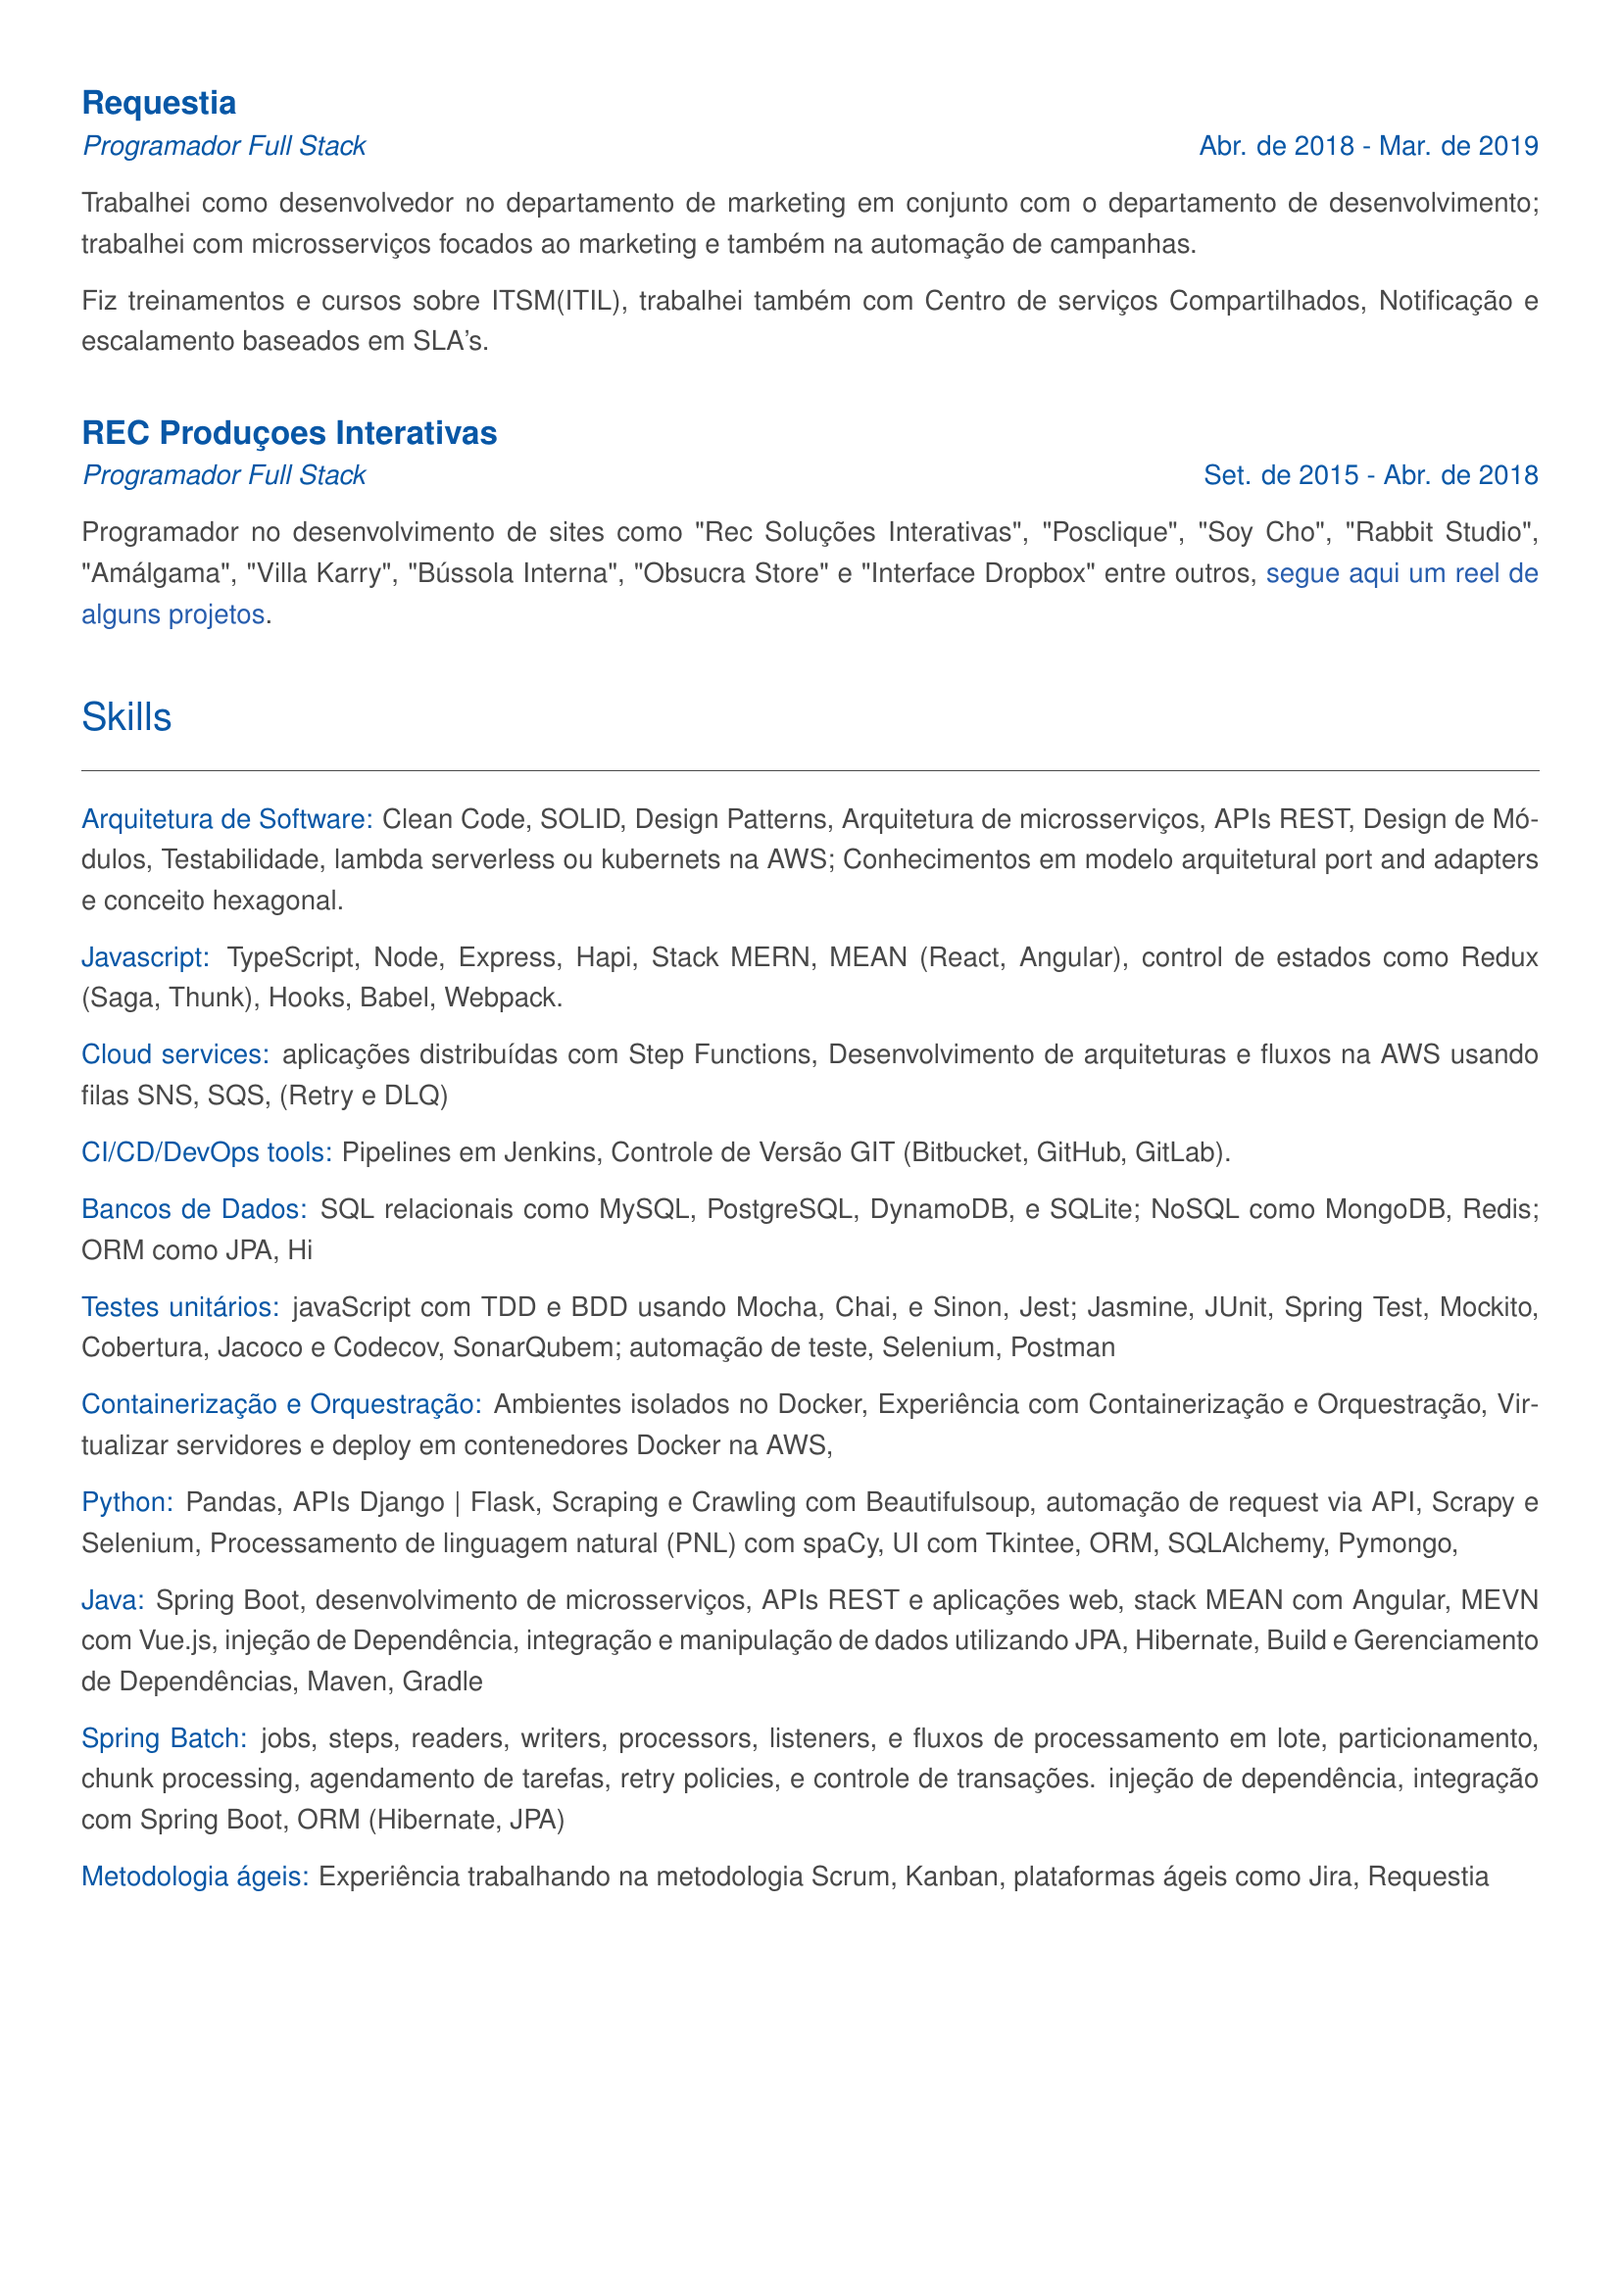
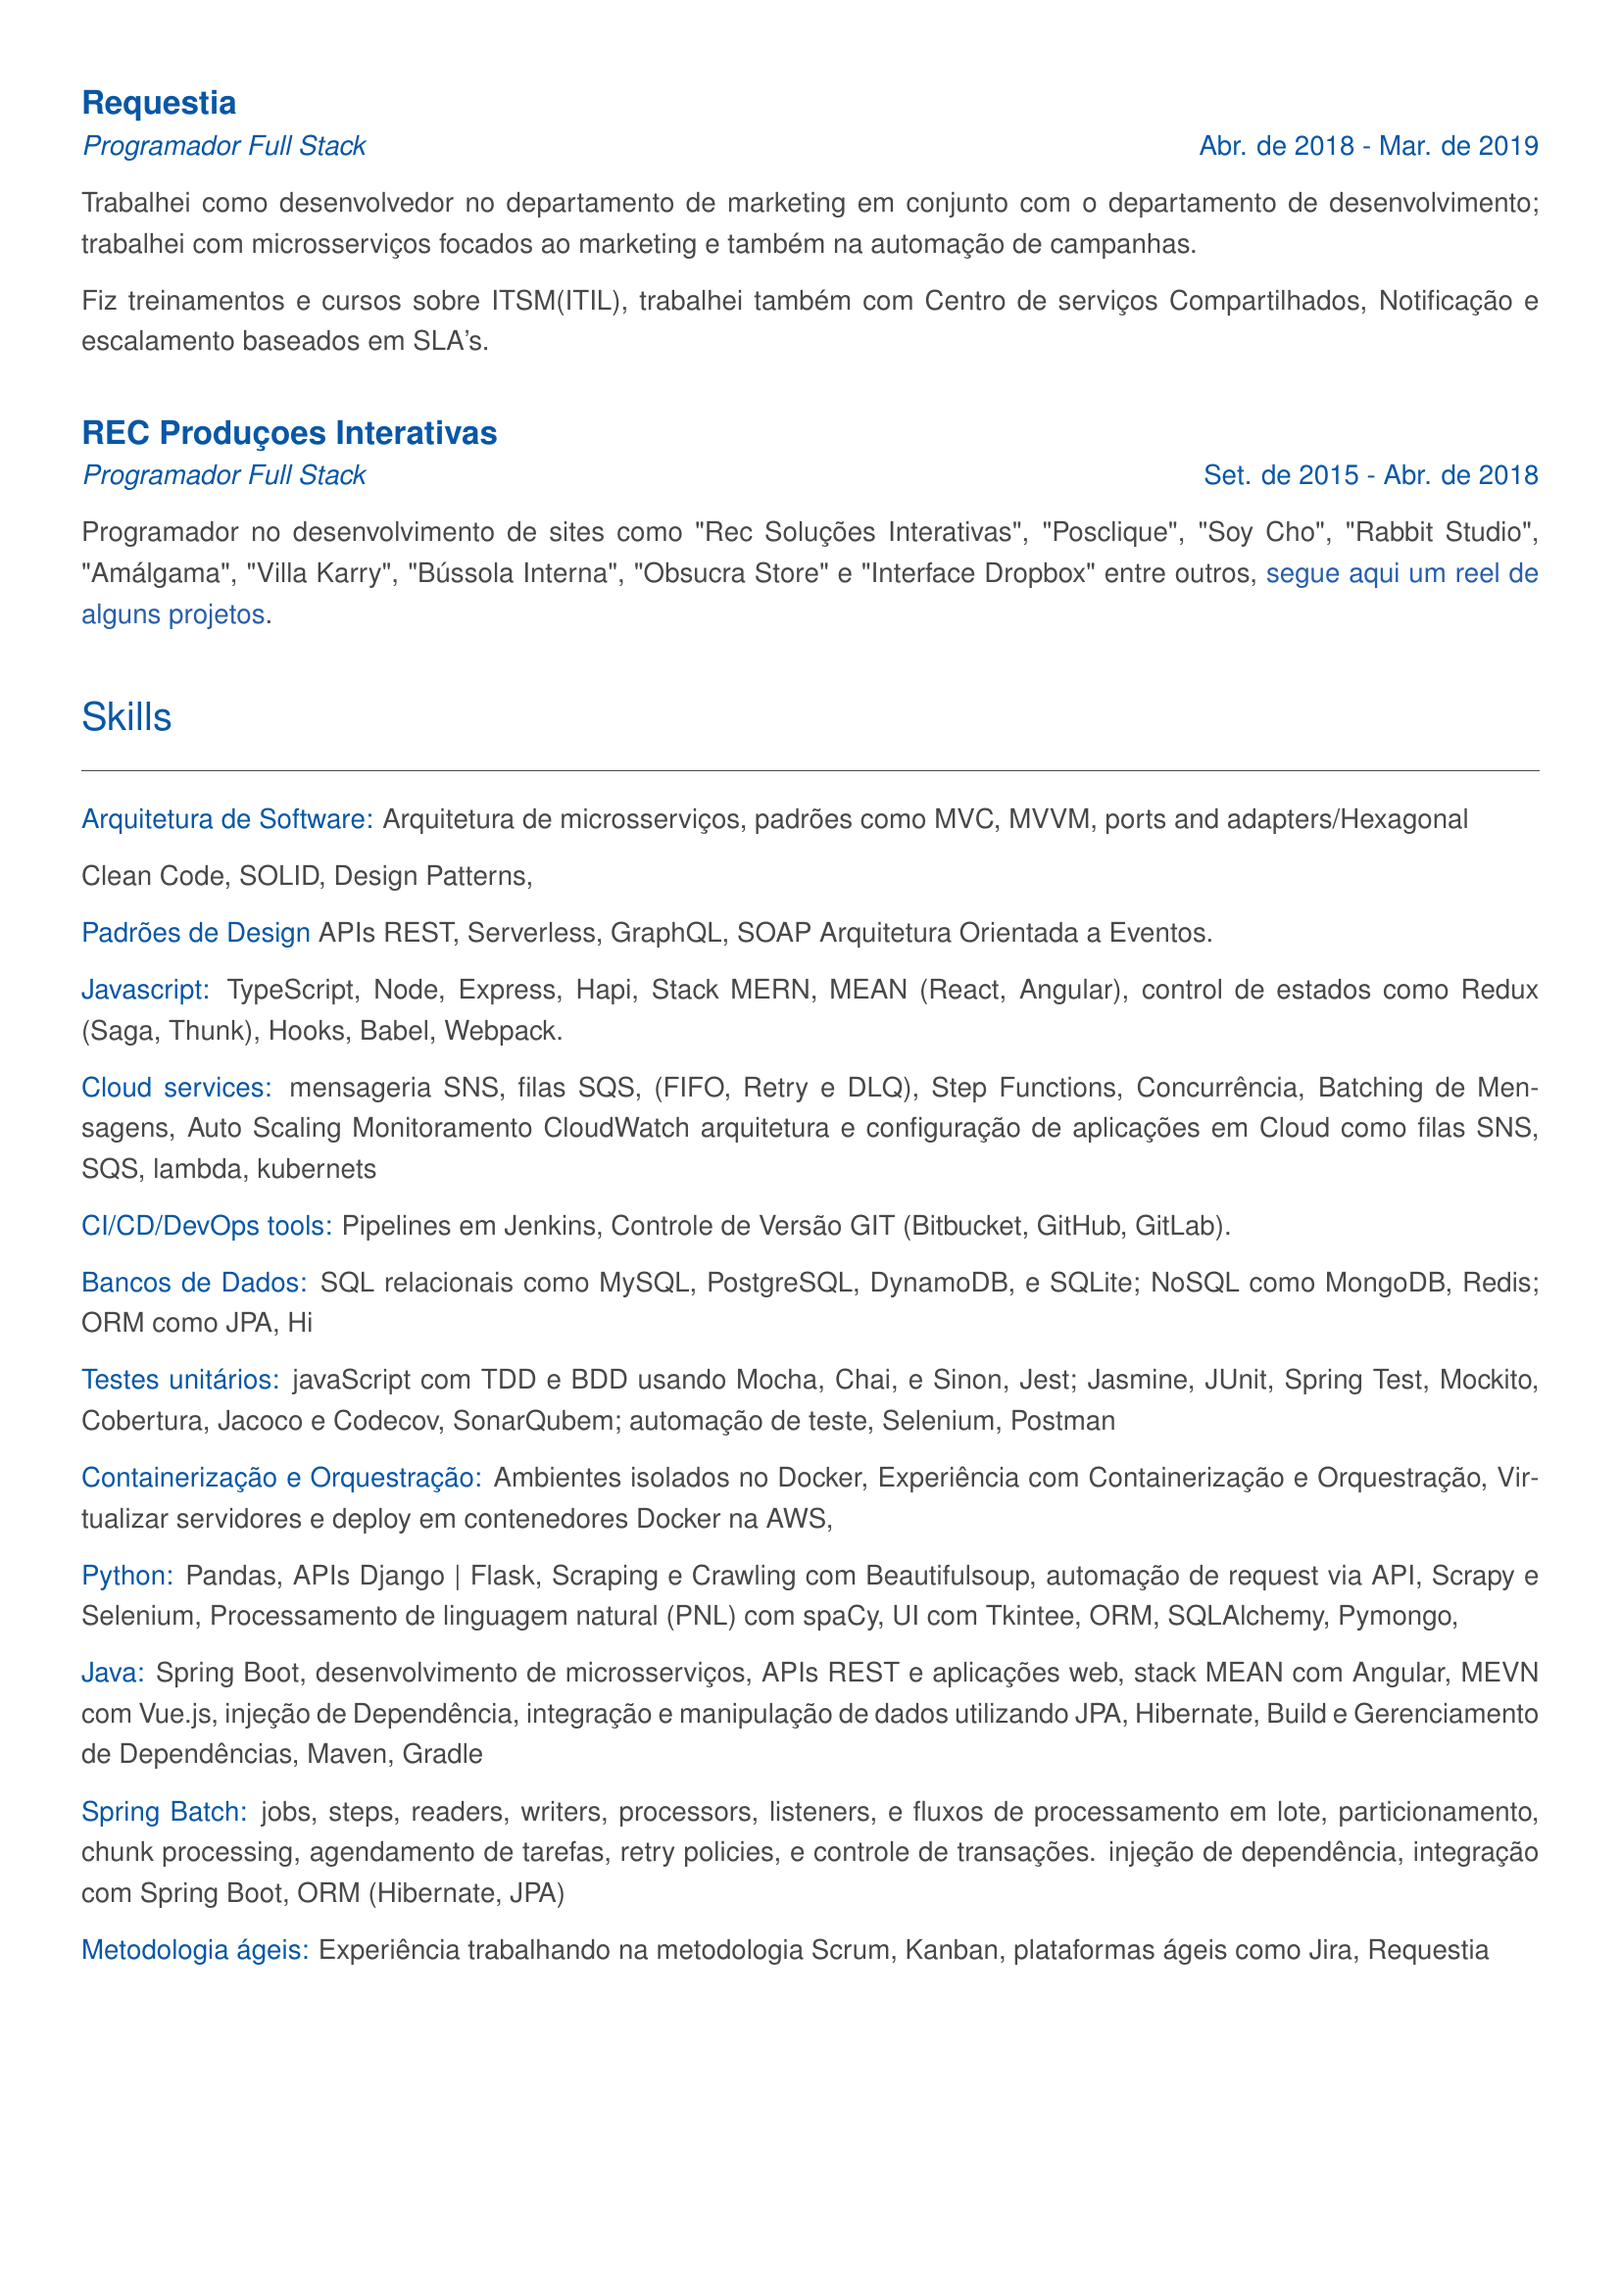
v0.0.2.3

Changed region(s): [[0.0308, 0.3433, 0.9559, 0.8739]]

diff --git a/doctxt.tex b/doctxt.tex
@@ -219,7 +219,8 @@ Clean Code, SOLID, Design Patterns,
 %AWS S3
 
 \textcolor{corSubSection}{Padrões de Design}
-lambda serverless, APIs REST, GraphQL, SOAP
+APIs REST, Serverless, GraphQL, SOAP
+Arquitetura Orientada a Eventos.
 
 \textcolor{corSubSection}{Javascript:}
 TypeScript, Node, Express, Hapi,
@@ -228,8 +229,13 @@ control de estados como Redux (Saga, Thunk), Hooks,
 Babel, Webpack.
 
 \textcolor{corSubSection}{Cloud services:}
-aplicações distribuídas com Step Functions, Desenvolvimento de arquiteturas e fluxos na AWS usando filas SNS, SQS, (Retry e DLQ)
-arquitetura e configuração de aplicações em Cloud como filas SNS, SQS, lambda, kubernets
+mensageria SNS,
+filas SQS, (FIFO, Retry e DLQ),
+Step Functions,
+Concurrência, Batching de Mensagens, Auto Scaling
+Monitoramento CloudWatch  
+arquitetura e configuração de aplicações em Cloud
+como filas SNS, SQS, lambda, kubernets
 
 \textcolor{corSubSection}{CI/CD/DevOps tools:}
 Pipelines em Jenkins, Controle de Versão GIT (Bitbucket, GitHub, GitLab).
